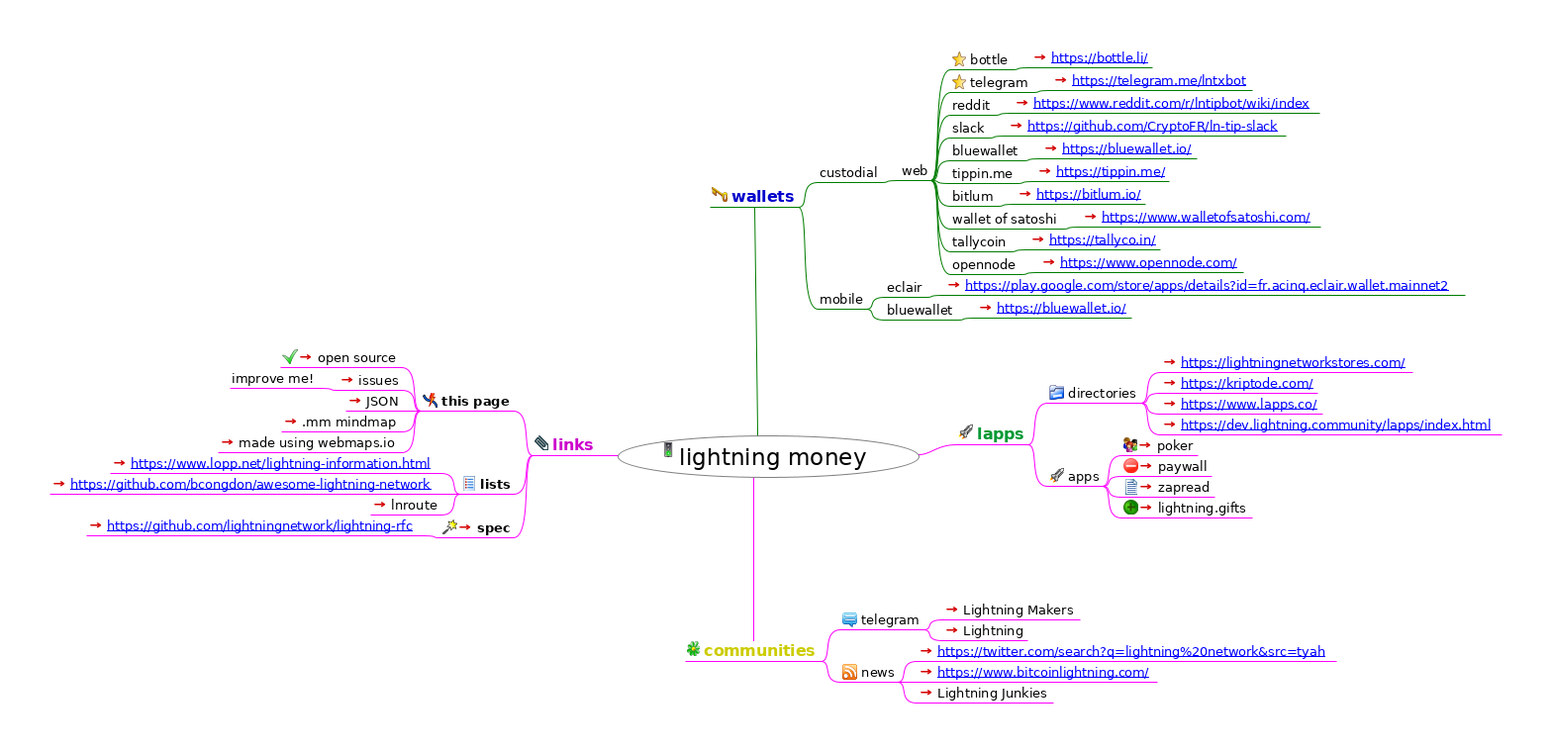
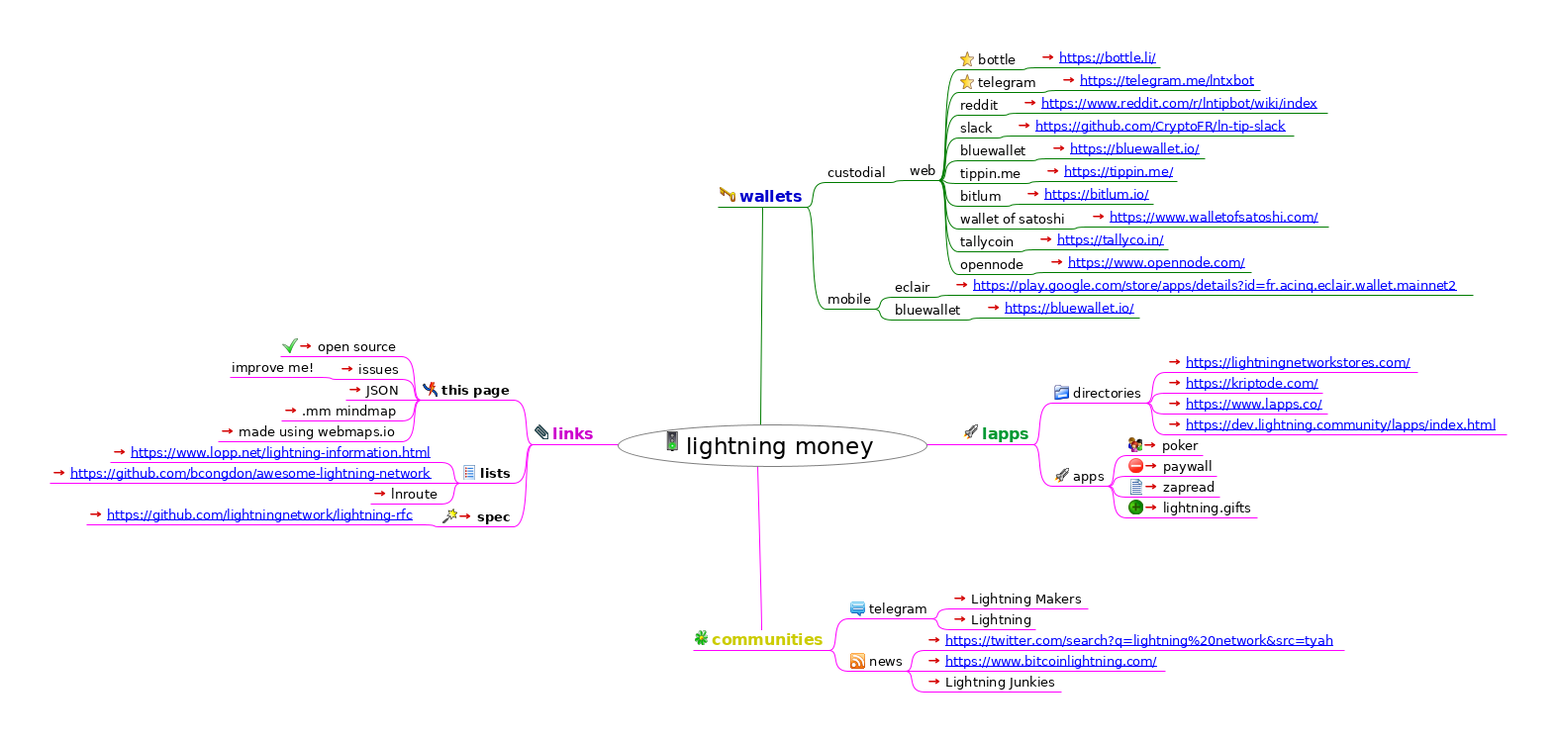
add spec links

diff --git a/index.html b/index.html
@@ -23,68 +23,68 @@
                    };
                };
           
-          --></script></head><body><h1>lightning money</h1><div style="width:96%;  padding:2%;  margin-bottom:10px;  border: 0px;  text-align:center;  vertical-align:center;"><img src="index.html_files/image.png" style="margin-bottom:10px; &#9;border: 0px; &#9;text-align:center; &#9;vertical-align:center;" alt="Imagemap" usemap="#fm_imagemap" /></div><map name="fm_imagemap" id="fm_imagemap"><area shape="rect" href="#FMID_1568754813FM" alt="lightning money" title="lightning money" coords="624,440,929,483" />
-<area shape="rect" href="#FMID_403237537FM" alt="wallets" title="wallets" coords="717,189,807,209" />
-<area shape="rect" href="#FMID_713142011FM" alt="custodial" title="custodial" coords="826,166,890,184" />
-<area shape="rect" href="#FMID_1071283894FM" alt="web" title="web" coords="909,164,941,182" />
-<area shape="rect" href="#FMID_432921303FM" alt="bottle" title="bottle" coords="960,52,1022,70" />
-<area shape="rect" href="https://bottle.li/" alt="https://bottle.li/" title="https://bottle.li/" coords="1041,50,1164,68" />
-<area shape="rect" href="#FMID_1137404448FM" alt="telegram" title="telegram" coords="960,75,1043,93" />
-<area shape="rect" href="https://telegram.me/lntxbot" alt="https://telegram.me/lntxbot" title="https://telegram.me/lntxbot" coords="1062,73,1265,91" />
-<area shape="rect" href="#FMID_1462350239FM" alt="reddit" title="reddit" coords="960,98,1004,116" />
-<area shape="rect" href="https://www.reddit.com/r/lntipbot/wiki/index" alt="https://www.reddit.com/r/lntipbot/wiki/i ..." title="https://www.reddit.com/r/lntipbot/wiki/i ..." coords="1023,96,1333,114" />
-<area shape="rect" href="#FMID_1508247426FM" alt="slack" title="slack" coords="960,121,998,139" />
-<area shape="rect" href="https://github.com/CryptoFR/ln-tip-slack" alt="https://github.com/CryptoFR/ln-tip-slack" title="https://github.com/CryptoFR/ln-tip-slack" coords="1017,119,1299,137" />
-<area shape="rect" href="#FMID_1624902230FM" alt="bluewallet" title="bluewallet" coords="960,144,1033,162" />
-<area shape="rect" href="https://bluewallet.io/" alt="https://bluewallet.io/" title="https://bluewallet.io/" coords="1052,142,1209,160" />
-<area shape="rect" href="#FMID_1286663915FM" alt="tippin.me" title="tippin.me" coords="960,167,1027,185" />
-<area shape="rect" href="https://tippin.me/" alt="https://tippin.me/" title="https://tippin.me/" coords="1046,165,1181,183" />
-<area shape="rect" href="#FMID_1565869066FM" alt="bitlum" title="bitlum" coords="960,190,1007,208" />
-<area shape="rect" href="https://bitlum.io/" alt="https://bitlum.io/" title="https://bitlum.io/" coords="1026,188,1157,206" />
-<area shape="rect" href="#FMID_1242085439FM" alt="wallet of satoshi" title="wallet of satoshi" coords="960,213,1073,231" />
-<area shape="rect" href="https://www.walletofsatoshi.com/" alt="https://www.walletofsatoshi.com/" title="https://www.walletofsatoshi.com/" coords="1092,211,1334,229" />
-<area shape="rect" href="#FMID_995052358FM" alt="tallycoin" title="tallycoin" coords="960,236,1020,254" />
-<area shape="rect" href="https://tallyco.in/" alt="https://tallyco.in/" title="https://tallyco.in/" coords="1039,234,1172,252" />
-<area shape="rect" href="#FMID_519516723FM" alt="opennode" title="opennode" coords="960,259,1031,277" />
-<area shape="rect" href="https://www.opennode.com/" alt="https://www.opennode.com/" title="https://www.opennode.com/" coords="1050,257,1256,275" />
-<area shape="rect" href="#FMID_129906959FM" alt="mobile" title="mobile" coords="826,294,875,312" />
-<area shape="rect" href="#FMID_1897401807FM" alt="eclair" title="eclair" coords="894,282,935,300" />
-<area shape="rect" href="https://play.google.com/store/apps/details?id=fr.acinq.eclair.wallet.mainnet2" alt="https://play.google.com/store/apps/detai ..." title="https://play.google.com/store/apps/detai ..." coords="954,280,1480,298" />
-<area shape="rect" href="#FMID_822394219FM" alt="bluewallet" title="bluewallet" coords="894,305,967,323" />
-<area shape="rect" href="https://bluewallet.io/" alt="https://bluewallet.io/" title="https://bluewallet.io/" coords="986,303,1143,321" />
-<area shape="rect" href="#FMID_1438249466FM" alt="lapps" title="lapps" coords="966,429,1039,449" />
-<area shape="rect" href="#FMID_1938254040FM" alt="directories" title="directories" coords="1058,389,1153,407" />
-<area shape="rect" href="https://lightningnetworkstores.com/" alt="https://lightningnetworkstores.com/" title="https://lightningnetworkstores.com/" coords="1172,358,1427,376" />
-<area shape="rect" href="https://kriptode.com/" alt="https://kriptode.com/" title="https://kriptode.com/" coords="1172,379,1331,397" />
-<area shape="rect" href="https://www.lapps.co/" alt="https://www.lapps.co/" title="https://www.lapps.co/" coords="1172,400,1336,418" />
-<area shape="rect" href="https://dev.lightning.community/lapps/index.html" alt="https://dev.lightning.community/lapps/in ..." title="https://dev.lightning.community/lapps/in ..." coords="1172,421,1517,439" />
-<area shape="rect" href="#FMID_1371138197FM" alt="apps" title="apps" coords="1058,473,1114,491" />
-<area shape="rect" href="https://lightning-poker.com/" alt="poker" title="poker" coords="1133,442,1210,460" />
-<area shape="rect" href="https://paywall.link/" alt="paywall" title="paywall" coords="1133,463,1224,481" />
-<area shape="rect" href="https://www.zapread.com/" alt="zapread" title="zapread" coords="1133,484,1227,502" />
-<area shape="rect" href="https://lightning.gifts/" alt="lightning.gifts" title="lightning.gifts" coords="1133,505,1265,523" />
-<area shape="rect" href="#FMID_1699377289FM" alt="communities" title="communities" coords="692,648,830,668" />
-<area shape="rect" href="#FMID_1812873111FM" alt="telegram" title="telegram" coords="849,618,933,636" />
-<area shape="rect" href="https://t.me/joinchat/EFJwOxEZmjqjTBEx2883Hw" alt="Lightning Makers" title="Lightning Makers" coords="952,608,1091,626" />
-<area shape="rect" href="https://t.me/lightning_network" alt="Lightning" title="Lightning" coords="952,629,1038,647" />
-<area shape="rect" href="#FMID_1050804376FM" alt="news" title="news" coords="849,671,907,689" />
-<area shape="rect" href="https://twitter.com/search?q=lightning%20network#FMID_1210018261FMamp;src=tyah" alt="https://twitter.com/search?q=lightning%2 ..." title="https://twitter.com/search?q=lightning%2 ..." coords="926,650,1350,668" />
-<area shape="rect" href="https://www.bitcoinlightning.com/" alt="https://www.bitcoinlightning.com/" title="https://www.bitcoinlightning.com/" coords="926,671,1169,689" />
-<area shape="rect" href="https://anchor.fm/lightning-junkies/" alt="Lightning Junkies" title="Lightning Junkies" coords="926,692,1064,710" />
-<area shape="rect" href="#FMID_728396892FM" alt="links" title="links" coords="538,440,604,460" />
-<area shape="rect" href="#FMID_1704672214FM" alt="this page" title="this page" coords="425,397,519,415" />
-<area shape="rect" href="https://github.com/solidpayorg/lightning.money/" alt="open source" title="open source" coords="283,353,406,371" />
-<area shape="rect" href="https://github.com/solidpayorg/lightning.money/issues" alt="issues" title="issues" coords="341,376,406,394" />
-<area shape="rect" href="#FMID_824388782FM" alt="improve me!" title="improve me!" coords="232,374,322,392" />
-<area shape="rect" href="index.json" alt="JSON" title="JSON" coords="349,397,406,415" />
-<area shape="rect" href="index.html" alt=".mm mindmap" title=".mm mindmap" coords="284,418,406,436" />
-<area shape="rect" href="https://webmaps.io/" alt="made using webmaps.io" title="made using webmaps.io" coords="220,439,406,457" />
-<area shape="rect" href="#FMID_1744026554FM" alt="lists" title="lists" coords="465,481,519,499" />
-<area shape="rect" href="https://www.lopp.net/lightning-information.html" alt="https://www.lopp.net/lightning-informati ..." title="https://www.lopp.net/lightning-informati ..." coords="111,460,446,478" />
-<area shape="rect" href="https://github.com/bcongdon/awesome-lightning-network" alt="https://github.com/bcongdon/awesome-ligh ..." title="https://github.com/bcongdon/awesome-ligh ..." coords="50,481,446,499" />
-<area shape="rect" href="https://lnroute.com/" alt="lnroute" title="lnroute" coords="374,502,446,520" />
-<area shape="rect" href="spec/index.html" alt="spec" title="spec" coords="445,525,519,543" />
-<area shape="rect" href="https://github.com/lightningnetwork/lightning-rfc" alt="https://github.com/lightningnetwork/ligh ..." title="https://github.com/lightningnetwork/ligh ..." coords="87,523,426,541" />
+          --></script></head><body><h1>lightning money</h1><div style="width:96%;  padding:2%;  margin-bottom:10px;  border: 0px;  text-align:center;  vertical-align:center;"><img src="index.html_files/image.png" style="margin-bottom:10px; &#9;border: 0px; &#9;text-align:center; &#9;vertical-align:center;" alt="Imagemap" usemap="#fm_imagemap" /></div><map name="fm_imagemap" id="fm_imagemap"><area shape="rect" href="#FMID_1568754813FM" alt="lightning money" title="lightning money" coords="624,429,937,472" />
+<area shape="rect" href="#FMID_403237537FM" alt="wallets" title="wallets" coords="725,189,815,209" />
+<area shape="rect" href="#FMID_713142011FM" alt="custodial" title="custodial" coords="834,166,898,184" />
+<area shape="rect" href="#FMID_1071283894FM" alt="web" title="web" coords="917,164,949,182" />
+<area shape="rect" href="#FMID_432921303FM" alt="bottle" title="bottle" coords="968,52,1030,70" />
+<area shape="rect" href="https://bottle.li/" alt="https://bottle.li/" title="https://bottle.li/" coords="1049,50,1172,68" />
+<area shape="rect" href="#FMID_1137404448FM" alt="telegram" title="telegram" coords="968,75,1051,93" />
+<area shape="rect" href="https://telegram.me/lntxbot" alt="https://telegram.me/lntxbot" title="https://telegram.me/lntxbot" coords="1070,73,1273,91" />
+<area shape="rect" href="#FMID_1462350239FM" alt="reddit" title="reddit" coords="968,98,1012,116" />
+<area shape="rect" href="https://www.reddit.com/r/lntipbot/wiki/index" alt="https://www.reddit.com/r/lntipbot/wiki/i ..." title="https://www.reddit.com/r/lntipbot/wiki/i ..." coords="1031,96,1341,114" />
+<area shape="rect" href="#FMID_1508247426FM" alt="slack" title="slack" coords="968,121,1006,139" />
+<area shape="rect" href="https://github.com/CryptoFR/ln-tip-slack" alt="https://github.com/CryptoFR/ln-tip-slack" title="https://github.com/CryptoFR/ln-tip-slack" coords="1025,119,1307,137" />
+<area shape="rect" href="#FMID_1624902230FM" alt="bluewallet" title="bluewallet" coords="968,144,1041,162" />
+<area shape="rect" href="https://bluewallet.io/" alt="https://bluewallet.io/" title="https://bluewallet.io/" coords="1060,142,1217,160" />
+<area shape="rect" href="#FMID_1286663915FM" alt="tippin.me" title="tippin.me" coords="968,167,1035,185" />
+<area shape="rect" href="https://tippin.me/" alt="https://tippin.me/" title="https://tippin.me/" coords="1054,165,1189,183" />
+<area shape="rect" href="#FMID_1565869066FM" alt="bitlum" title="bitlum" coords="968,190,1015,208" />
+<area shape="rect" href="https://bitlum.io/" alt="https://bitlum.io/" title="https://bitlum.io/" coords="1034,188,1165,206" />
+<area shape="rect" href="#FMID_1242085439FM" alt="wallet of satoshi" title="wallet of satoshi" coords="968,213,1081,231" />
+<area shape="rect" href="https://www.walletofsatoshi.com/" alt="https://www.walletofsatoshi.com/" title="https://www.walletofsatoshi.com/" coords="1100,211,1342,229" />
+<area shape="rect" href="#FMID_995052358FM" alt="tallycoin" title="tallycoin" coords="968,236,1028,254" />
+<area shape="rect" href="https://tallyco.in/" alt="https://tallyco.in/" title="https://tallyco.in/" coords="1047,234,1180,252" />
+<area shape="rect" href="#FMID_519516723FM" alt="opennode" title="opennode" coords="968,259,1039,277" />
+<area shape="rect" href="https://www.opennode.com/" alt="https://www.opennode.com/" title="https://www.opennode.com/" coords="1058,257,1264,275" />
+<area shape="rect" href="#FMID_129906959FM" alt="mobile" title="mobile" coords="834,294,883,312" />
+<area shape="rect" href="#FMID_1897401807FM" alt="eclair" title="eclair" coords="902,282,943,300" />
+<area shape="rect" href="https://play.google.com/store/apps/details?id=fr.acinq.eclair.wallet.mainnet2" alt="https://play.google.com/store/apps/detai ..." title="https://play.google.com/store/apps/detai ..." coords="962,280,1488,298" />
+<area shape="rect" href="#FMID_822394219FM" alt="bluewallet" title="bluewallet" coords="902,305,975,323" />
+<area shape="rect" href="https://bluewallet.io/" alt="https://bluewallet.io/" title="https://bluewallet.io/" coords="994,303,1151,321" />
+<area shape="rect" href="#FMID_1438249466FM" alt="lapps" title="lapps" coords="971,429,1044,449" />
+<area shape="rect" href="#FMID_1938254040FM" alt="directories" title="directories" coords="1063,389,1158,407" />
+<area shape="rect" href="https://lightningnetworkstores.com/" alt="https://lightningnetworkstores.com/" title="https://lightningnetworkstores.com/" coords="1177,358,1432,376" />
+<area shape="rect" href="https://kriptode.com/" alt="https://kriptode.com/" title="https://kriptode.com/" coords="1177,379,1336,397" />
+<area shape="rect" href="https://www.lapps.co/" alt="https://www.lapps.co/" title="https://www.lapps.co/" coords="1177,400,1341,418" />
+<area shape="rect" href="https://dev.lightning.community/lapps/index.html" alt="https://dev.lightning.community/lapps/in ..." title="https://dev.lightning.community/lapps/in ..." coords="1177,421,1522,439" />
+<area shape="rect" href="#FMID_1371138197FM" alt="apps" title="apps" coords="1063,473,1119,491" />
+<area shape="rect" href="https://lightning-poker.com/" alt="poker" title="poker" coords="1138,442,1215,460" />
+<area shape="rect" href="https://paywall.link/" alt="paywall" title="paywall" coords="1138,463,1229,481" />
+<area shape="rect" href="https://www.zapread.com/" alt="zapread" title="zapread" coords="1138,484,1232,502" />
+<area shape="rect" href="https://lightning.gifts/" alt="lightning.gifts" title="lightning.gifts" coords="1138,505,1270,523" />
+<area shape="rect" href="#FMID_1699377289FM" alt="communities" title="communities" coords="700,637,838,657" />
+<area shape="rect" href="#FMID_1812873111FM" alt="telegram" title="telegram" coords="857,607,941,625" />
+<area shape="rect" href="https://t.me/joinchat/EFJwOxEZmjqjTBEx2883Hw" alt="Lightning Makers" title="Lightning Makers" coords="960,597,1099,615" />
+<area shape="rect" href="https://t.me/lightning_network" alt="Lightning" title="Lightning" coords="960,618,1046,636" />
+<area shape="rect" href="#FMID_1050804376FM" alt="news" title="news" coords="857,660,915,678" />
+<area shape="rect" href="https://twitter.com/search?q=lightning%20network#FMID_1210018261FMamp;src=tyah" alt="https://twitter.com/search?q=lightning%2 ..." title="https://twitter.com/search?q=lightning%2 ..." coords="934,639,1358,657" />
+<area shape="rect" href="https://www.bitcoinlightning.com/" alt="https://www.bitcoinlightning.com/" title="https://www.bitcoinlightning.com/" coords="934,660,1177,678" />
+<area shape="rect" href="https://anchor.fm/lightning-junkies/" alt="Lightning Junkies" title="Lightning Junkies" coords="934,681,1072,699" />
+<area shape="rect" href="#FMID_728396892FM" alt="links" title="links" coords="538,429,604,449" />
+<area shape="rect" href="#FMID_1704672214FM" alt="this page" title="this page" coords="425,386,519,404" />
+<area shape="rect" href="https://github.com/solidpayorg/lightning.money/" alt="open source" title="open source" coords="283,342,406,360" />
+<area shape="rect" href="https://github.com/solidpayorg/lightning.money/issues" alt="issues" title="issues" coords="341,365,406,383" />
+<area shape="rect" href="#FMID_824388782FM" alt="improve me!" title="improve me!" coords="232,363,322,381" />
+<area shape="rect" href="index.json" alt="JSON" title="JSON" coords="349,386,406,404" />
+<area shape="rect" href="index.html" alt=".mm mindmap" title=".mm mindmap" coords="284,407,406,425" />
+<area shape="rect" href="https://webmaps.io/" alt="made using webmaps.io" title="made using webmaps.io" coords="220,428,406,446" />
+<area shape="rect" href="#FMID_1744026554FM" alt="lists" title="lists" coords="465,470,519,488" />
+<area shape="rect" href="https://www.lopp.net/lightning-information.html" alt="https://www.lopp.net/lightning-informati ..." title="https://www.lopp.net/lightning-informati ..." coords="111,449,446,467" />
+<area shape="rect" href="https://github.com/bcongdon/awesome-lightning-network" alt="https://github.com/bcongdon/awesome-ligh ..." title="https://github.com/bcongdon/awesome-ligh ..." coords="50,470,446,488" />
+<area shape="rect" href="https://lnroute.com/" alt="lnroute" title="lnroute" coords="374,491,446,509" />
+<area shape="rect" href="spec/index.html" alt="spec" title="spec" coords="445,514,519,532" />
+<area shape="rect" href="https://github.com/lightningnetwork/lightning-rfc" alt="https://github.com/lightningnetwork/ligh ..." title="https://github.com/lightningnetwork/ligh ..." coords="87,512,426,530" />
 </map>
 
 <div class="node"><img src="index.html_files/hide.png" class="hideshow" alt="hide" onClick="toggle(&quot;N65543&quot;)" id="imgN65543" /><img src="index.html_files/icons/go.svg" alt="go" /> <a id="FMID_1568754813FM" /><div class="nodecontent" style="color:#000000;font-size:150%;">lightning money</div><div class="content" id="N65543"><div class="node"><img src="index.html_files/hide.png" class="hideshow" alt="hide" onClick="toggle(&quot;N66444&quot;)" id="imgN66444" /><img src="index.html_files/icons/password.svg" alt="password" /> <a id="FMID_403237537FM" /><div class="nodecontent" style="color:#0000cc;font-size:100%;font-weight:bold;">wallets</div><div class="content" id="N66444"><div class="node"><img src="index.html_files/hide.png" class="hideshow" alt="hide" onClick="toggle(&quot;N66487&quot;)" id="imgN66487" /><a id="FMID_713142011FM" /><div class="nodecontent" style="color:#000000;font-size:83%;">custodial</div><div class="content" id="N66487"><div class="node"><img src="index.html_files/hide.png" class="hideshow" alt="hide" onClick="toggle(&quot;N66522&quot;)" id="imgN66522" /><a id="FMID_1071283894FM" /><div class="nodecontent" style="color:#000000;font-size:83%;">web</div><div class="content" id="N66522"><div class="node"><img src="index.html_files/hide.png" class="hideshow" alt="hide" onClick="toggle(&quot;N66557&quot;)" id="imgN66557" /><img src="index.html_files/icons/bookmark.svg" alt="bookmark" /> <a id="FMID_432921303FM" /><div class="nodecontent" style="color:#000000;font-size:83%;">bottle</div><div class="content" id="N66557"><div class="node"><img src="index.html_files/leaf.png" class="hideshow" alt="leaf" /><a id="FMID_1723379621FM" /><div class="nodecontent" style="color:#000000;font-size:83%;"><a href="https://bottle.li/">

diff --git a/spec/index.html b/spec/index.html
@@ -23,22 +23,22 @@
                    };
                };
           
-          --></script></head><body><h1>spec</h1><div style="width:96%;  padding:2%;  margin-bottom:10px;  border: 0px;  text-align:center;  vertical-align:center;"><img src="index.html_files/image.png" style="margin-bottom:10px; &#9;border: 0px; &#9;text-align:center; &#9;vertical-align:center;" alt="Imagemap" usemap="#fm_imagemap" /></div><map name="fm_imagemap" id="fm_imagemap"><area shape="rect" href="#FMID_1568754813FM" alt="spec" title="spec" coords="542,358,650,401" />
-<area shape="rect" href="https://github.com/lightningnetwork/lightning-rfc/blob/master/00-introduction.md#bolt-0-introduction-and-index" alt="Bolts" title="Bolts" coords="687,50,773,70" />
+          --></script></head><body><h1>spec</h1><div style="width:96%;  padding:2%;  margin-bottom:10px;  border: 0px;  text-align:center;  vertical-align:center;"><img src="index.html_files/image.png" style="margin-bottom:10px; &#9;border: 0px; &#9;text-align:center; &#9;vertical-align:center;" alt="Imagemap" usemap="#fm_imagemap" /></div><map name="fm_imagemap" id="fm_imagemap"><area shape="rect" href="../index.html" alt="spec" title="spec" coords="542,358,688,401" />
+<area shape="rect" href="https://github.com/lightningnetwork/lightning-rfc/blob/master/00-introduction.md#bolt-0-introduction-and-index" alt="Bolts" title="Bolts" coords="725,50,811,70" />
 <area shape="rect" href="#FMID_728396892FM" alt="main spec" title="main spec" coords="408,358,522,378" />
 <area shape="rect" href="https://github.com/lightningnetwork/lightning-rfc" alt="https://github.com/lightningnetwork/ligh ..." title="https://github.com/lightningnetwork/ligh ..." coords="50,357,389,375" />
-<area shape="rect" href="#FMID_928353311FM" alt="Other" title="Other" coords="669,381,744,401" />
-<area shape="rect" href="https://github.com/btcontract/lnurl-rfc/blob/master/spec.md" alt="lnurl" title="lnurl" coords="763,155,817,173" />
-<area shape="rect" href="#FMID_440219822FM" alt="lnurl is a bech32-encoded HTTPS query st ..." title="lnurl is a bech32-encoded HTTPS query st ..." coords="763,176,1141,262" />
-<area shape="rect" href="#FMID_1961156848FM" alt="example" title="example" coords="763,437,825,455" />
-<area shape="rect" href="#FMID_1177904626FM" alt="https://service.com/api?q=3fc3645b439ce8 ..." title="https://service.com/api?q=3fc3645b439ce8 ..." coords="844,265,1530,283" />
+<area shape="rect" href="#FMID_928353311FM" alt="Other" title="Other" coords="707,381,782,401" />
+<area shape="rect" href="https://github.com/btcontract/lnurl-rfc/blob/master/spec.md" alt="lnurl" title="lnurl" coords="801,155,855,173" />
+<area shape="rect" href="#FMID_440219822FM" alt="lnurl is a bech32-encoded HTTPS query st ..." title="lnurl is a bech32-encoded HTTPS query st ..." coords="801,176,1179,262" />
+<area shape="rect" href="#FMID_1961156848FM" alt="example" title="example" coords="801,437,863,455" />
+<area shape="rect" href="#FMID_1177904626FM" alt="https://service.com/api?q=3fc3645b439ce8 ..." title="https://service.com/api?q=3fc3645b439ce8 ..." coords="882,265,1568,283" />
 <area shape="rect" href="#FMID_452574641FM" alt="LNURL1DP68GURN8GHJ7UM9WF
 MXJCM99E3K7MF0V ..." title="LNURL1DP68GURN8GHJ7UM9WF
-MXJCM99E3K7MF0V ..." coords="844,286,1061,406" />
-<area shape="rect" href="#FMID_141047124FM" alt="png_15751375840253331061.png" title="png_15751375840253331061.png" coords="844,409,1079,627" />
+MXJCM99E3K7MF0V ..." coords="882,286,1099,406" />
+<area shape="rect" href="#FMID_141047124FM" alt="png_15751375840253331061.png" title="png_15751375840253331061.png" coords="882,409,1117,627" />
 </map>
 
-<div class="node"><img src="index.html_files/hide.png" class="hideshow" alt="hide" onClick="toggle(&quot;N65543&quot;)" id="imgN65543" /><img src="index.html_files/icons/go.svg" alt="go" /> <a id="FMID_1568754813FM" /><div class="nodecontent" style="color:#000000;font-size:150%;">spec</div><div class="content" id="N65543"><div class="node"><img src="index.html_files/leaf.png" class="hideshow" alt="leaf" /><img src="index.html_files/icons/launch.svg" alt="launch" /> <a id="FMID_1438249466FM" /><div class="nodecontent" style="color:#009933;font-size:100%;font-weight:bold;"><a href="https://github.com/lightningnetwork/lightning-rfc/blob/master/00-introduction.md#bolt-0-introduction-and-index">Bolts</a> <a href="https://github.com/lightningnetwork/lightning-rfc/blob/master/00-introduction.md#bolt-0-introduction-and-index"><img src="index.html_files/ilink.png" alt="User Link" style="border-width:0" /></a></div></div><div class="node"><img src="index.html_files/hide.png" class="hideshow" alt="hide" onClick="toggle(&quot;N66489&quot;)" id="imgN66489" /><img src="index.html_files/icons/attach.svg" alt="attach" /> <a id="FMID_728396892FM" /><div class="nodecontent" style="color:#cc00cc;font-size:100%;font-weight:bold;">main spec</div><div class="content" id="N66489"><div class="node"><img src="index.html_files/leaf.png" class="hideshow" alt="leaf" /><a id="FMID_1858353829FM" /><div class="nodecontent" style="color:#000000;font-size:83%;"><a href="https://github.com/lightningnetwork/lightning-rfc">
+<div class="node"><img src="index.html_files/hide.png" class="hideshow" alt="hide" onClick="toggle(&quot;N65543&quot;)" id="imgN65543" /><img src="index.html_files/icons/go.svg" alt="go" /> <a id="FMID_1568754813FM" /><div class="nodecontent" style="color:#000000;font-size:150%;"><a href="../index.html">spec</a> <a href="../index.html"><img src="index.html_files/ilink.png" alt="User Link" style="border-width:0" /></a></div><div class="content" id="N65543"><div class="node"><img src="index.html_files/leaf.png" class="hideshow" alt="leaf" /><img src="index.html_files/icons/launch.svg" alt="launch" /> <a id="FMID_1438249466FM" /><div class="nodecontent" style="color:#009933;font-size:100%;font-weight:bold;"><a href="https://github.com/lightningnetwork/lightning-rfc/blob/master/00-introduction.md#bolt-0-introduction-and-index">Bolts</a> <a href="https://github.com/lightningnetwork/lightning-rfc/blob/master/00-introduction.md#bolt-0-introduction-and-index"><img src="index.html_files/ilink.png" alt="User Link" style="border-width:0" /></a></div></div><div class="node"><img src="index.html_files/hide.png" class="hideshow" alt="hide" onClick="toggle(&quot;N66490&quot;)" id="imgN66490" /><img src="index.html_files/icons/attach.svg" alt="attach" /> <a id="FMID_728396892FM" /><div class="nodecontent" style="color:#cc00cc;font-size:100%;font-weight:bold;">main spec</div><div class="content" id="N66490"><div class="node"><img src="index.html_files/leaf.png" class="hideshow" alt="leaf" /><a id="FMID_1858353829FM" /><div class="nodecontent" style="color:#000000;font-size:83%;"><a href="https://github.com/lightningnetwork/lightning-rfc">
     <a http-equiv="content-type" content="text/html; charset=utf-8" href="https://github.com/lightningnetwork/lightning-rfc">https://github.com/lightningnetwork/lightning-rfc</a>
-  </a> <a href="https://github.com/lightningnetwork/lightning-rfc"><img src="index.html_files/ilink.png" alt="User Link" style="border-width:0" /></a></div></div></div></div><div class="node"><img src="index.html_files/hide.png" class="hideshow" alt="hide" onClick="toggle(&quot;N66588&quot;)" id="imgN66588" /><img src="index.html_files/icons/idea.svg" alt="idea" /> <a id="FMID_928353311FM" /><div class="nodecontent" style="color:#cccc00;font-size:100%;font-weight:bold;">Other</div><div class="content" id="N66588"><div class="node"><img src="index.html_files/leaf.png" class="hideshow" alt="leaf" /><a id="FMID_961943115FM" /><div class="nodecontent" style="color:#000000;font-size:83%;"><a href="https://github.com/btcontract/lnurl-rfc/blob/master/spec.md">lnurl</a> <a href="https://github.com/btcontract/lnurl-rfc/blob/master/spec.md"><img src="index.html_files/ilink.png" alt="User Link" style="border-width:0" /></a></div></div><div class="node"><img src="index.html_files/leaf.png" class="hideshow" alt="leaf" /><a id="FMID_440219822FM" /><div class="nodecontent" style="color:#000099;font-size:83%;">lnurl is a bech32-encoded HTTPS query string which is supposed to help payer interact with payee and thus simplify a number of standard scenarios such as requesting incoming channels, withdrawing funds, logging in etc.</div></div><div class="node"><img src="index.html_files/hide.png" class="hideshow" alt="hide" onClick="toggle(&quot;N66702&quot;)" id="imgN66702" /><a id="FMID_1961156848FM" /><div class="nodecontent" style="color:#000000;font-size:83%;">example</div><div class="content" id="N66702"><div class="node"><img src="index.html_files/leaf.png" class="hideshow" alt="leaf" /><a id="FMID_1177904626FM" /><div class="nodecontent" style="color:#000000;font-size:83%;">https://service.com/api?q=3fc3645b439ce8e7f2553a69e5267081d96dcd340693afabe04be7b0ccd178df</div></div><div class="node"><img src="index.html_files/leaf.png" class="hideshow" alt="leaf" /><a id="FMID_452574641FM" /><div class="nodecontent" style="color:#009900;font-size:83%;">LNURL1DP68GURN8GHJ7UM9WF<br />MXJCM99E3K7MF0V9CXJ0M385E<br />KVCENXC6R2C35XVUKXEFCV5M<br />KVV34X5EKZD3EV56NYD3HXQU<br />RZEPEXEJXXEPNXSCRVWFNV9N<br />XZCN9XQ6XYEFHVGCXXCMYXY<br />MNSERXFQ5FNS</div></div><div class="node"><img src="index.html_files/leaf.png" class="hideshow" alt="leaf" /><a id="FMID_141047124FM" /><div class="nodecontent" style="color:#000000;font-size:83%;">png_15751375840253331061.png</div></div></div></div></div></div></div></div>
+  </a> <a href="https://github.com/lightningnetwork/lightning-rfc"><img src="index.html_files/ilink.png" alt="User Link" style="border-width:0" /></a></div></div></div></div><div class="node"><img src="index.html_files/hide.png" class="hideshow" alt="hide" onClick="toggle(&quot;N66589&quot;)" id="imgN66589" /><img src="index.html_files/icons/idea.svg" alt="idea" /> <a id="FMID_928353311FM" /><div class="nodecontent" style="color:#cccc00;font-size:100%;font-weight:bold;">Other</div><div class="content" id="N66589"><div class="node"><img src="index.html_files/leaf.png" class="hideshow" alt="leaf" /><a id="FMID_961943115FM" /><div class="nodecontent" style="color:#000000;font-size:83%;"><a href="https://github.com/btcontract/lnurl-rfc/blob/master/spec.md">lnurl</a> <a href="https://github.com/btcontract/lnurl-rfc/blob/master/spec.md"><img src="index.html_files/ilink.png" alt="User Link" style="border-width:0" /></a></div></div><div class="node"><img src="index.html_files/leaf.png" class="hideshow" alt="leaf" /><a id="FMID_440219822FM" /><div class="nodecontent" style="color:#000099;font-size:83%;">lnurl is a bech32-encoded HTTPS query string which is supposed to help payer interact with payee and thus simplify a number of standard scenarios such as requesting incoming channels, withdrawing funds, logging in etc.</div></div><div class="node"><img src="index.html_files/hide.png" class="hideshow" alt="hide" onClick="toggle(&quot;N66703&quot;)" id="imgN66703" /><a id="FMID_1961156848FM" /><div class="nodecontent" style="color:#000000;font-size:83%;">example</div><div class="content" id="N66703"><div class="node"><img src="index.html_files/leaf.png" class="hideshow" alt="leaf" /><a id="FMID_1177904626FM" /><div class="nodecontent" style="color:#000000;font-size:83%;">https://service.com/api?q=3fc3645b439ce8e7f2553a69e5267081d96dcd340693afabe04be7b0ccd178df</div></div><div class="node"><img src="index.html_files/leaf.png" class="hideshow" alt="leaf" /><a id="FMID_452574641FM" /><div class="nodecontent" style="color:#009900;font-size:83%;">LNURL1DP68GURN8GHJ7UM9WF<br />MXJCM99E3K7MF0V9CXJ0M385E<br />KVCENXC6R2C35XVUKXEFCV5M<br />KVV34X5EKZD3EV56NYD3HXQU<br />RZEPEXEJXXEPNXSCRVWFNV9N<br />XZCN9XQ6XYEFHVGCXXCMYXY<br />MNSERXFQ5FNS</div></div><div class="node"><img src="index.html_files/leaf.png" class="hideshow" alt="leaf" /><a id="FMID_141047124FM" /><div class="nodecontent" style="color:#000000;font-size:83%;">png_15751375840253331061.png</div></div></div></div></div></div></div></div>
 </body></html>

diff --git a/index.mm b/index.mm
@@ -1,6 +1,6 @@
 <map version="freeplane 1.7.0">
 <!--To view this file, download free mind mapping software Freeplane from http://freeplane.sourceforge.net -->
-<node TEXT="lightning money" FOLDED="false" ID="ID_1568754813" CREATED="1569871551142" MODIFIED="1572163481295" STYLE="oval">
+<node TEXT="lightning money" FOLDED="false" ID="ID_1568754813" CREATED="1569871551142" MODIFIED="1572171836916" ICON_SIZE="16.0 pt" STYLE="oval">
 <icon BUILTIN="go"/>
 <font SIZE="18"/>
 <hook NAME="MapStyle">
@@ -246,7 +246,7 @@
 </node>
 </node>
 </node>
-<node TEXT="lapps" POSITION="right" ID="ID_1438249466" CREATED="1569959255579" MODIFIED="1572163481293" COLOR="#009933" HGAP_QUANTITY="27.499999597668662 pt" VSHIFT_QUANTITY="-62.24999814480549 pt">
+<node TEXT="lapps" POSITION="right" ID="ID_1438249466" CREATED="1569959255579" MODIFIED="1572171836916" COLOR="#009933" HGAP_QUANTITY="25.249999664723884 pt" VSHIFT_QUANTITY="-53.99999839067464 pt">
 <icon BUILTIN="launch"/>
 <font SIZE="12" BOLD="true"/>
 <edge COLOR="#ff00ff"/>

diff --git a/spec/index.mm b/spec/index.mm
@@ -1,6 +1,6 @@
 <map version="freeplane 1.7.0">
 <!--To view this file, download free mind mapping software Freeplane from http://freeplane.sourceforge.net -->
-<node TEXT="spec" FOLDED="false" ID="ID_1568754813" CREATED="1569871551142" MODIFIED="1572171205997" STYLE="oval">
+<node TEXT="spec" FOLDED="false" ID="ID_1568754813" CREATED="1569871551142" MODIFIED="1572171869792" ICON_SIZE="16.0 pt" LINK="../index.mm" STYLE="oval">
 <icon BUILTIN="go"/>
 <font SIZE="18"/>
 <hook NAME="MapStyle">
